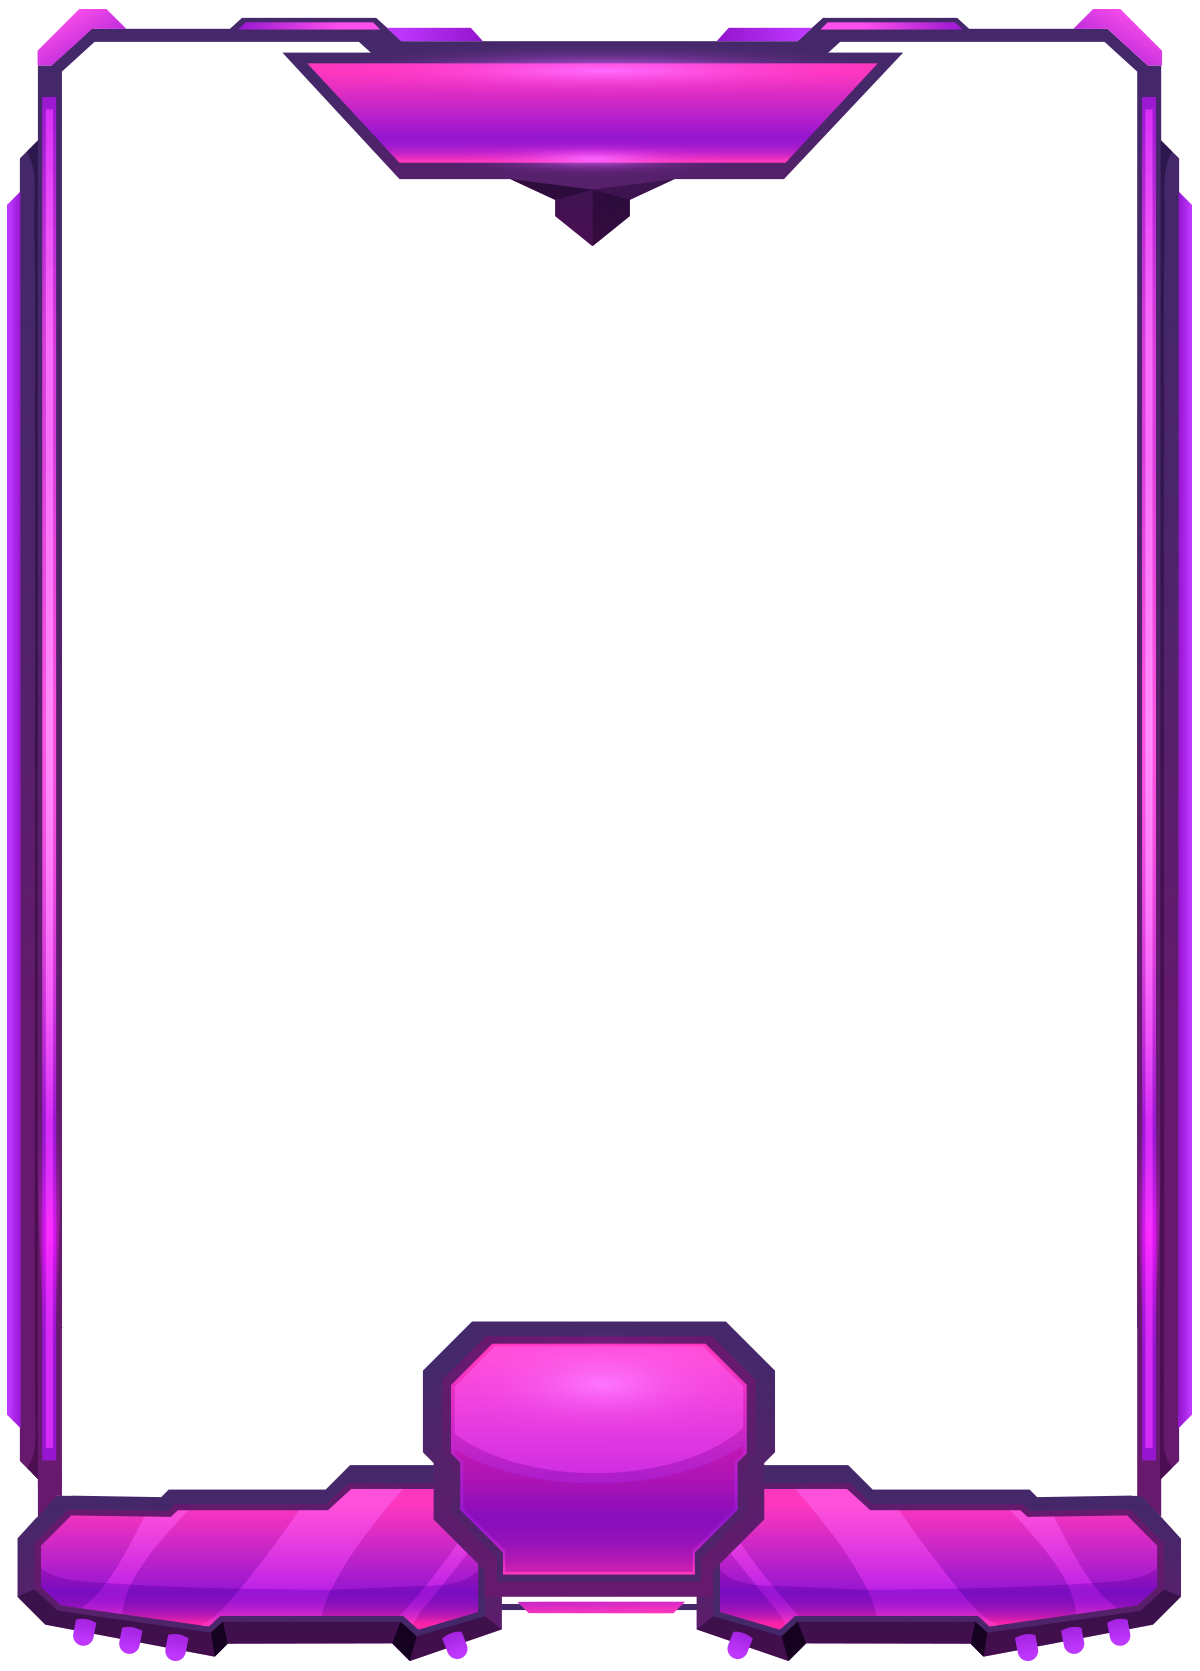
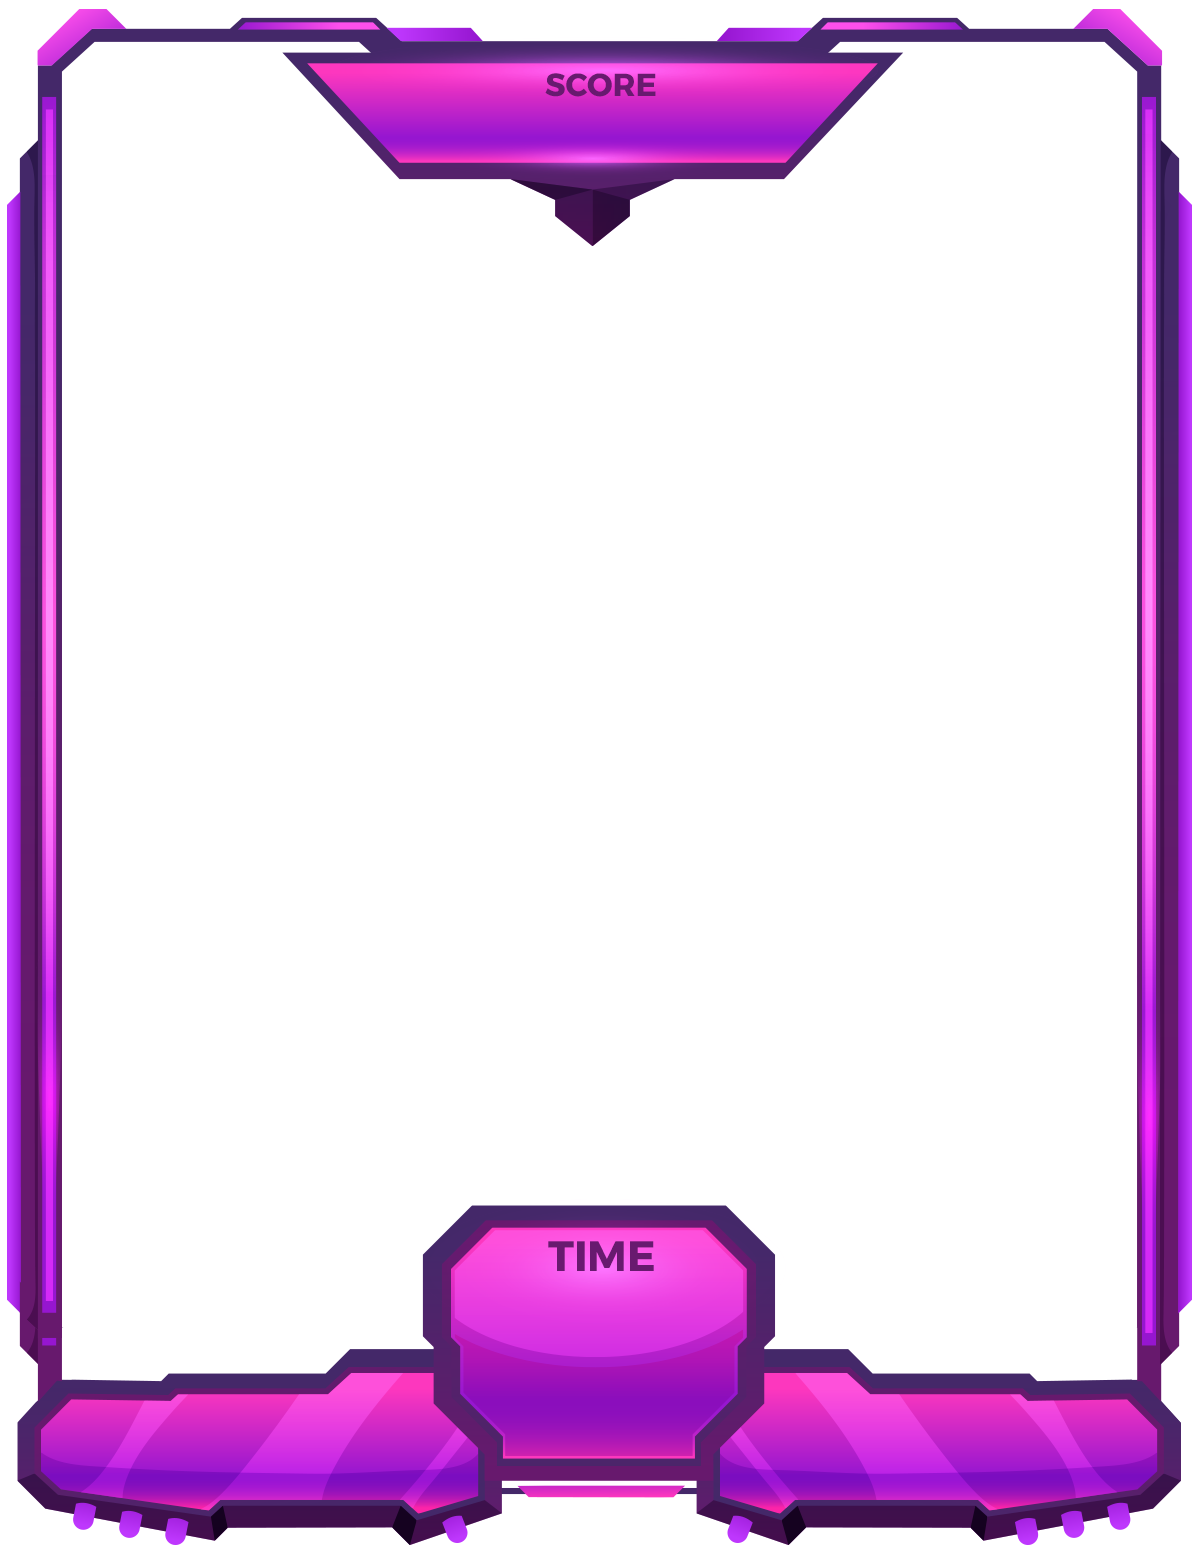
first commit222

diff --git a/src/App.js b/src/App.js
@@ -28,6 +28,18 @@ const styles = {
     backgroundColor: 'rgba(0, 0, 0, 0.6)',
     zIndex: 1,
   },
+  flashOverlay: {
+    position: 'absolute',
+    top: 0,
+    left: 0,
+    width: '100%',
+    height: '100%',
+    backgroundColor: 'rgba(255, 0, 0, 0.3)',
+    opacity: 0,
+    transition: 'opacity 0.15s ease-out',
+    pointerEvents: 'none',
+    zIndex: 10,
+  },
   startScreen: {
     position: 'absolute',
     top: 0,
@@ -35,17 +47,31 @@ const styles = {
     width: '100%',
     height: '100%',
     display: 'flex',
+    flexDirection: 'column',
     justifyContent: 'center',
     alignItems: 'center',
     zIndex: 5,
+    gap: '2rem', // Add spacing between elements
+  },
+  explainerImage: {
+    width: '60%',
+    maxWidth: '600px',
+    height: 'auto',
+    marginBottom: '1rem',
   },
   startButton: {
-    width: '200px', // Reduced size
+    width: '200px',
     cursor: 'pointer',
-    transition: 'transform 0.2s ease',
+    transition: 'all 0.2s ease',
+    transform: 'translateY(0)',
     '&:hover': {
       transform: 'scale(1.1)',
     },
+  },
+  startButtonClicked: {
+    transform: 'translateY(20px)',
+    opacity: 0,
+    transition: 'all 0.3s ease',
   },
   gameContent: {
     position: 'relative',
@@ -77,8 +103,8 @@ const styles = {
     position: 'absolute',
     left: '50%',
     transform: 'translateX(-50%)',
-    color: 'white',
-    fontSize: '3rem',
+    color: '#442869',
+    fontSize: '2.4rem',
     fontWeight: '900',
     textAlign: 'center',
     textShadow: '0 0 20px rgba(255,255,255,0.5)',
@@ -90,12 +116,12 @@ const styles = {
     position: 'absolute',
     left: '50%',
     transform: 'translateX(-50%)',
-    color: 'white',
+    color: '#442869',
     fontSize: '4rem',
     fontWeight: '900',
     textAlign: 'center',
     textShadow: '0 0 20px rgba(255,255,255,0.5)',
-    top: '620px',
+    top: '685px',
     pointerEvents: 'none',
     userSelect: 'none',
   },
@@ -110,11 +136,25 @@ const styles = {
     height: '100px',
     transform: 'translate(-50%, -50%)',
     padding: '10px',
+    WebkitTouchCallout: 'none',
+    WebkitUserSelect: 'none',
+    KhtmlUserSelect: 'none',
+    MozUserSelect: 'none',
+    msUserSelect: 'none',
+    userSelect: 'none',
+    WebkitTapHighlightColor: 'transparent',
   },
   itemImage: {
     width: '60px',
     height: '60px',
     objectFit: 'contain',
+    WebkitTouchCallout: 'none', // Prevents touch callout on iOS
+    WebkitUserSelect: 'none',   // Prevents selection on Safari
+    KhtmlUserSelect: 'none',    // Prevents selection on old browsers
+    MozUserSelect: 'none',      // Prevents selection on Firefox
+    msUserSelect: 'none',       // Prevents selection on IE/Edge
+    userSelect: 'none',         // Prevents selection on modern browsers
+    WebkitTapHighlightColor: 'transparent', // Removes tap highlight on mobile
   },
   logo: {
     width: '60px',
@@ -135,29 +175,43 @@ const styles = {
   }
 };
 
+const DIFFICULTY_SETTINGS = {
+  easy: { speed: 3.5, spawnRate: 700, bombChance: 0.2 }, // Increased speed from 2 to 3.5, reduced spawnRate from 800 to 700
+  medium: { speed: 4, spawnRate: 600, bombChance: 0.35 },
+  hard: { speed: 6, spawnRate: 400, bombChance: 0.5 },
+  extreme: { speed: 8, spawnRate: 300, bombChance: 0.65 }
+};
+
+const PATTERNS = ['straight', 'zigzag', 'sine', 'bounce'];
+
 const Game = () => {
   const [score, setScore] = useState(0);
   const [items, setItems] = useState([]);
   const [gameOver, setGameOver] = useState(false);
   const [gameStarted, setGameStarted] = useState(false);
-  const [speed, setSpeed] = useState(4);
-  const [spawnRate, setSpawnRate] = useState(600);
+  const [speed, setSpeed] = useState(2);
+  const [spawnRate, setSpawnRate] = useState(800);
   const [logoSpawned, setLogoSpawned] = useState(false);
-  const [timeLeft, setTimeLeft] = useState(30);
-  const [scorePosition, setScorePosition] = useState(25);
+  const [timeLeft, setTimeLeft] = useState(60);
+  const [scorePosition, setScorePosition] = useState(47);
   const [isDragging, setIsDragging] = useState(false);
   const [dragStart, setDragStart] = useState(0);
+  const [isFlashing, setIsFlashing] = useState(false);
+  const [currentPhase, setCurrentPhase] = useState('easy');
+  const [allowHorizontalMovement, setAllowHorizontalMovement] = useState(false);
 
-  const startGame = () => {
+  const startGame = useCallback(() => {
     setGameStarted(true);
     setScore(0);
-    setTimeLeft(30);
+    setTimeLeft(60);
     setGameOver(false);
-    setLogoSpawned(false);
+    setLogoSpawned(false);    
     setItems([]);
-    setSpeed(4);
-    setSpawnRate(600);
-  };
+    setSpeed(DIFFICULTY_SETTINGS.easy.speed);
+    setSpawnRate(DIFFICULTY_SETTINGS.easy.spawnRate);
+    setCurrentPhase('easy');
+    setAllowHorizontalMovement(false);
+  }, []);
 
   const handleDragMove = useCallback((e) => {
     if (!isDragging) return;
@@ -183,6 +237,31 @@ const Game = () => {
     e.preventDefault();
   }, []);
 
+  const handleItemClick = useCallback((clickedItem, e) => {
+    e.preventDefault();
+    e.stopPropagation();
+    
+    if (clickedItem.clicked || gameOver) return;
+
+    setItems(prev => 
+      prev.map(item => 
+        item.id === clickedItem.id 
+          ? { ...item, clicked: true }
+          : item
+      )
+    );
+
+    if (clickedItem.type === 'logo') {
+      setScore(prev => prev + 150);
+    } else if (clickedItem.type === 'good') {
+      setScore(prev => prev + 10);
+    } else {
+      setScore(prev => Math.max(0, prev - 10));
+      setIsFlashing(true);
+      setTimeout(() => setIsFlashing(false), 150);
+    }
+  }, [gameOver]);
+
   useEffect(() => {
     if (isDragging) {
       window.addEventListener('mousemove', handleDragMove);
@@ -199,14 +278,21 @@ const Game = () => {
     };
   }, [isDragging, handleDragMove, handleDragEnd]);
 
+  useEffect(() => {
+    if (!gameStarted || gameOver) return;
+
+    if (timeLeft <= 40) {
+      setAllowHorizontalMovement(true);
+    }
+  }, [timeLeft, gameStarted, gameOver]);
+
   const createItem = useCallback((type = null) => {
     const id = Math.random().toString(36);
-    
-    const patterns = ['straight', 'zigzag', 'sine', 'bounce'];
-    const movePattern = patterns[Math.floor(Math.random() * patterns.length)];
+    const movePattern = PATTERNS[Math.floor(Math.random() * PATTERNS.length)];
     
     if (!type) {
-      type = Math.random() > 0.35 ? 'good' : 'bomb';
+      const bombChance = DIFFICULTY_SETTINGS[currentPhase].bombChance;
+      type = Math.random() > bombChance ? 'good' : 'bomb';
     }
 
     const left = type === 'logo' ? 50 : (Math.random() * 80 + 10);
@@ -223,12 +309,32 @@ const Game = () => {
       direction: Math.random() > 0.5 ? 1 : -1,
       originalLeft: left,
       speed: itemSpeedMultiplier,
-      phase: Math.random() * Math.PI * 2
+      phase: Math.random() * Math.PI * 2,
+      createdAfterMovement: timeLeft <= 40
     };
-  }, []);
+  }, [currentPhase, timeLeft]);
+
+  // Update game phase and settings
+  useEffect(() => {
+    if (!gameStarted || gameOver) return;
+
+    const updateSettings = (phase) => {
+      setCurrentPhase(phase);
+      setSpeed(DIFFICULTY_SETTINGS[phase].speed);
+      setSpawnRate(DIFFICULTY_SETTINGS[phase].spawnRate);
+    };
+
+    if (timeLeft <= 10) {
+      updateSettings('extreme');
+    } else if (timeLeft <= 30) {
+      updateSettings('hard');
+    } else if (timeLeft <= 50) {
+      updateSettings('medium');
+    }
+  }, [timeLeft, gameStarted, gameOver]);
 
   useEffect(() => {
-    if (timeLeft === 15 && !logoSpawned && gameStarted && !gameOver) {
+    if (timeLeft === 30 && !logoSpawned && gameStarted && !gameOver) {
       setItems(prev => [...prev, createItem('logo')]);
       setLogoSpawned(true);
     }
@@ -254,23 +360,12 @@ const Game = () => {
   useEffect(() => {
     if (!gameStarted || gameOver) return;
 
-    const difficultyInterval = setInterval(() => {
-      setSpeed(prev => {
-        const speedIncrease = prev > 7 ? 0.3 : 0.5;
-        return Math.min(prev + speedIncrease, 8.5);
-      });
-      setSpawnRate(prev => Math.max(prev - 75, 400));
-    }, 3000);
-
-    return () => clearInterval(difficultyInterval);
-  }, [gameStarted, gameOver]);
-
-  useEffect(() => {
-    if (!gameStarted || gameOver) return;
-
     const itemInterval = setInterval(() => {
       const rand = Math.random();
-      const itemCount = rand > 0.6 ? 3 : rand > 0.3 ? 2 : 1;
+      const itemCount = currentPhase === 'extreme' ? 
+        (rand > 0.5 ? 3 : 2) : 
+        (rand > 0.6 ? 3 : rand > 0.3 ? 2 : 1);
+      
       setItems(prev => [...prev, ...Array(itemCount).fill(null).map(() => createItem())]);
     }, spawnRate);
 
@@ -278,10 +373,10 @@ const Game = () => {
       setItems(prev => {
         const newItems = prev
           .map(item => {
-            let newLeft = parseFloat(item.left);
+            let newLeft = parseFloat(item.originalLeft);
             const time = Date.now() / 1000;
 
-            if (item.type !== 'logo') {
+            if (allowHorizontalMovement && item.type !== 'logo' && item.createdAfterMovement) {
               switch(item.movePattern) {
                 case 'zigzag':
                   newLeft = item.originalLeft + Math.sin(item.top / 30) * 25;
@@ -314,32 +409,9 @@ const Game = () => {
       clearInterval(itemInterval);
       clearInterval(moveInterval);
     };
-  }, [gameStarted, gameOver, createItem, speed, spawnRate]);
+  }, [gameStarted, gameOver, createItem, speed, spawnRate, currentPhase, allowHorizontalMovement]);
 
-  const handleItemClick = (clickedItem, e) => {
-    e.preventDefault();
-    e.stopPropagation();
-    
-    if (clickedItem.clicked || gameOver) return;
-
-    setItems(prev => 
-      prev.map(item => 
-        item.id === clickedItem.id 
-          ? { ...item, clicked: true }
-          : item
-      )
-    );
-
-    if (clickedItem.type === 'logo') {
-      setScore(prev => prev + 150);
-    } else if (clickedItem.type === 'good') {
-      setScore(prev => prev + 10);
-    } else {
-      setScore(prev => Math.max(0, prev - 10));
-    }
-  };
-
-  const renderItemContent = (type) => {
+  const renderItemContent = useCallback((type) => {
     switch(type) {
       case 'logo':
         return <img src="./logo.png" alt="logo" style={styles.logo} />;
@@ -348,7 +420,7 @@ const Game = () => {
       default:
         return '💣';
     }
-  };
+  }, []);
 
   return (
     <div style={styles.gameContainer}>
@@ -364,8 +436,20 @@ const Game = () => {
 
       <div style={styles.overlay} />
       
+      <div
+        style={{
+          ...styles.flashOverlay,
+          opacity: isFlashing ? 1 : 0,
+        }}
+      />
+      
       {!gameStarted && !gameOver && (
         <div style={styles.startScreen}>
+          <img 
+            src="./explainer.png" 
+            alt="Game Instructions"
+            style={styles.explainerImage}
+          />
           <img 
             src="./start.png" 
             alt="Start Game" 
